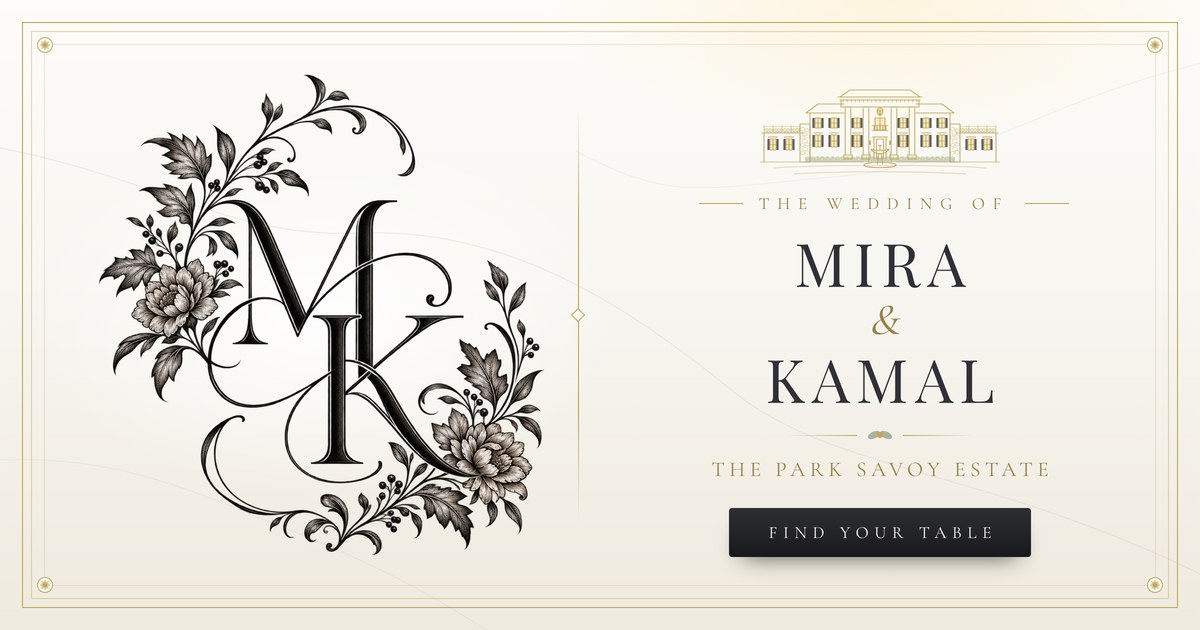
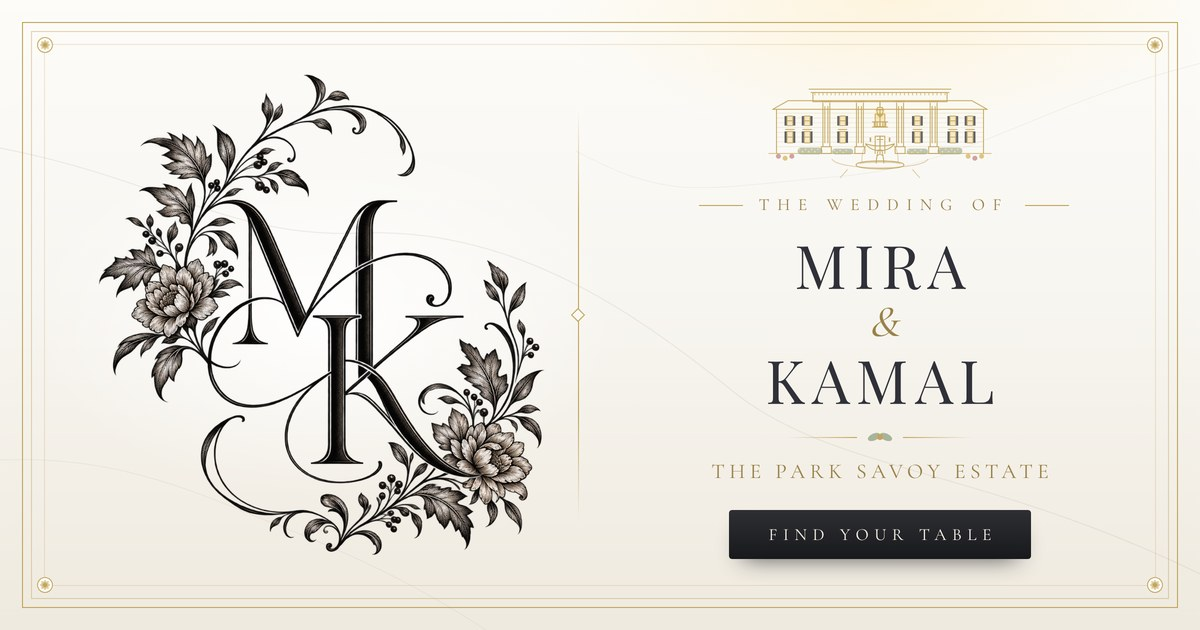
Wedding: back to the simple estate drawing, without trees
The illustration-style layout was busier than wanted. Restores the
simpler line drawing taken from the venue's photograph (with its
evening lighting) and removes the two trees. Link preview re-rendered.

Claude-Session: https://claude.ai/code/session_011Sbhh6dCgMpx6NYGR4aHMs

diff --git a/src/components/guest/templates/WeddingTemplate.tsx b/src/components/guest/templates/WeddingTemplate.tsx
@@ -28,73 +28,69 @@ const template = EVENT_TEMPLATES.wedding;
 const { palette } = template;
 
 /**
- * The Park Savoy's front, laid out after the estate's illustrated print: the
- * two-storey main house under a low hipped roof, its columned portico capped
- * with a hipped roof of its own, tall fieldstone piers where the house meets
- * the single-storey end wings, and lattice railings around the wings' roof
- * terraces. Black shutters throughout, the Juliet balcony and front door at
- * the centre, the tiered fountain before it, one long boxwood hedge.
+ * The Park Savoy's front, drawn from the entrance court: a long two-storey
+ * clapboard house under a low hipped roof, black shutters on every window,
+ * and the deep flat-roofed porch on four square pillars with a dentil cornice.
+ * Under it, a lantern hangs over the front door and an iron Juliet balcony;
+ * in front, the tiered fountain in its round brick court, boxwood hedges and
+ * mums.
  *
  * Lit as it is on a wedding night: once the lines are drawn the windows warm
  * up one after another, the porch lantern glows, and the fairy lights wound
  * through the boxwood twinkle.
  */
 function Estate() {
-  const columns = [88, 106, 134, 152];
-  // [centre x, top, height] for each window of the main house and wings.
+  const pillars = [64, 99, 141, 176];
+  // [centre x, top, height] for each window, both storeys.
   const windows: [number, number, number][] = [
-    [58, 45, 10], [74, 45, 10], [97, 45, 10], [143, 45, 10], [166, 45, 10], [182, 45, 10],
-    [58, 62, 12], [74, 62, 12], [97, 62, 12], [143, 62, 12], [166, 62, 12], [182, 62, 12],
-    [13, 66, 11], [29, 66, 11], [211, 66, 11], [227, 66, 11],
+    [26, 47, 10], [44, 47, 10], [81, 47, 10], [159, 47, 10], [196, 47, 10], [214, 47, 10],
+    [26, 63, 12], [44, 63, 12], [81, 63, 12], [159, 63, 12], [196, 63, 12], [214, 63, 12],
   ];
-  const dentils = Array.from({ length: 19 }, (_, i) => 83 + i * 4.11);
-  // The wings' roof terraces: posts, rails and a lattice band between them.
-  const lattice = (x0: number, x1: number) => {
-    const posts = Array.from({ length: Math.round((x1 - x0) / 9) + 1 }, (_, i) => x0 + ((x1 - x0) * i) / Math.round((x1 - x0) / 9));
-    const cross = Array.from({ length: Math.floor((x1 - x0) / 3) }, (_, i) => {
-      const x = x0 + i * 3;
-      return `M${x} 55.5 l3 3 M${x + 3} 55.5 l-3 3`;
-    });
-    return `M${x0} 53.5 H${x1} M${x0} 59 H${x1} ${posts.map((x) => `M${x} 52 V59`).join(' ')} ${cross.join(' ')}`;
-  };
-  // Fieldstone: loose rounded stones stacked up each pier.
-  const stones = (x: number) =>
-    [
-      [x + 2.5, 56, 2.2, 1.6], [x + 7, 57, 2, 1.5], [x + 4.5, 60.5, 2.6, 1.6], [x + 2.4, 64.5, 2, 1.7],
-      [x + 7.2, 63.5, 2.2, 1.6], [x + 5, 68, 2.6, 1.7], [x + 2.6, 72, 2, 1.6], [x + 7.4, 71.5, 2, 1.6],
-      [x + 4.8, 76, 2.5, 1.7], [x + 2.5, 80, 2.1, 1.6], [x + 7.2, 79.5, 2.1, 1.6],
-    ].map(([cx, cy, rx, ry]) => `M${cx - rx} ${cy} a${rx} ${ry} 0 1 0 ${2 * rx} 0 a${rx} ${ry} 0 1 0 ${-2 * rx} 0`).join(' ');
-  // One long hedge with a scalloped top, and fairy lights along it.
-  const hedgeTop = Array.from({ length: 30 }, () => 'q2.5 -2.6 5 0').join(' ');
-  const fairyLights = Array.from({ length: 49 }, (_, i) => [47 + i * 3.04, 84 + (i % 2 ? 2.4 : 0.4)] as const);
+  const siding = Array.from({ length: 8 }, (_, i) => 44 + i * 5);
+  const dentils = Array.from({ length: 33 }, (_, i) => 52 + i * 4.25);
+  const hedges: [number, number, number][] = [
+    // [x, y, width]
+    [34, 80, 26], [70, 81, 22], [148, 81, 22], [180, 80, 26],
+  ];
+  const fairyLights = hedges.flatMap(([x, y, w]) =>
+    Array.from({ length: Math.floor((w - 3) / 3.2) }, (_, i) => [x + 2 + i * 3.2, y + (i % 2 ? 4.2 : 1.8)] as const)
+  );
+  const mums: [number, number, string][] = [
+    [14, 89, '#C98B8B'], [21, 91, '#D9B866'], [28, 89, '#C98B8B'],
+    [212, 89, '#D9B866'], [219, 91, '#C98B8B'], [226, 89, '#D9B866'],
+  ];
 
   return (
-    <svg className="wed-crest" viewBox="0 0 240 104" aria-hidden width="100%" style={{ maxWidth: 240 }}>
+    <svg className="wed-crest" viewBox="0 0 240 112" aria-hidden width="100%" style={{ maxWidth: 230 }}>
       <defs>
         <radialGradient id="wed-lantern-glow">
           <stop offset="0" stopColor="#F6DC8E" stopOpacity=".9" />
           <stop offset="1" stopColor="#F6DC8E" stopOpacity="0" />
         </radialGradient>
       </defs>
-
-      <path className="wed-crest-fill" d={`M45 89 V84.5 ${hedgeTop} V89 Z`} fill={palette.dividerLeaf} fillOpacity=".6" />
-      <g className="wed-crest-fill" fill="#F7E2A0">
-        {fairyLights.map(([x, y], i) => (
-          <circle key={x} className="wed-twinkle" cx={x} cy={y} r=".75" style={{ ['--i' as string]: i }} />
+      <g className="wed-crest-fill" fill={palette.dividerLeaf} fillOpacity=".75">
+        {hedges.map(([x, y, w]) => (
+          <rect key={x} x={x} y={y} width={w} height={87 - y} rx={(87 - y) / 2} />
         ))}
       </g>
-      <circle className="wed-lantern" cx="120" cy="39" r="6" fill="url(#wed-lantern-glow)" />
+      <g className="wed-crest-fill" fill="#F7E2A0">
+        {fairyLights.map(([x, y], i) => (
+          <circle key={`${x}-${y}`} className="wed-twinkle" cx={x} cy={y} r=".8" style={{ ['--i' as string]: i }} />
+        ))}
+      </g>
+      <circle className="wed-lantern" cx="120" cy="44" r="7" fill="url(#wed-lantern-glow)" />
+      <g className="wed-crest-fill" fillOpacity=".8">
+        {mums.map(([x, y, c]) => (
+          <circle key={`${x}-${y}`} cx={x} cy={y} r="2.6" fill={c} />
+        ))}
+      </g>
 
-      <g fill="none" stroke={palette.accent} strokeWidth=".85" strokeLinecap="round" strokeLinejoin="round">
-        {/* Main house: low hipped roof either side of the portico */}
-        <path d="M46 40 L58 31 H84 M194 40 L182 31 H156 M46 40 H84 M156 40 H194 M50 40 V89 M190 40 V89" pathLength={1} />
-        {/* End wings with their lattice-railed roof terraces */}
-        <path d="M2 60 H44 M196 60 H238 M4 60 V89 M236 60 V89" pathLength={1} />
-        <path d={`${lattice(4, 40)} ${lattice(200, 236)}`} pathLength={1} opacity=".75" strokeWidth=".6" />
-        {/* Fieldstone piers where the wings meet the house */}
-        <path d="M40 51 H50 V89 H40 Z M190 51 H200 V89 H190 Z" pathLength={1} />
-        <path d={`${stones(40)} ${stones(190)}`} pathLength={1} opacity=".6" strokeWidth=".5" />
-        {/* Windows, each with its pair of black shutters; hoods on the lower row */}
+      <g fill="none" stroke={palette.accent} strokeWidth=".9" strokeLinecap="round" strokeLinejoin="round">
+        {/* House: low hipped roof over a long clapboard front */}
+        <path d="M8 40 L24 31 H216 L232 40 Z" pathLength={1} />
+        <path d="M12 40 V86 M228 40 V86" pathLength={1} />
+        <path d={siding.map((y) => `M12 ${y} H228`).join(' ')} pathLength={1} opacity=".18" />
+        {/* Windows with their black shutters */}
         {windows.map(([x, top, h], i) => (
           <g key={`${x}-${top}`}>
             <rect
@@ -109,23 +105,13 @@ function Estate() {
               style={{ ['--i' as string]: i }}
             />
             <path
-              d={`M${x - 3} ${top} h6 v${h} h-6 Z M${x - 3} ${top + h / 2} h6 M${x} ${top} v${h}${top > 55 ? ` M${x - 4.6} ${top - 2} h9.2` : ''}`}
+              // Lower windows carry a small hood above them.
+              d={`M${x - 3} ${top} h6 v${h} h-6 Z M${x - 3} ${top + h / 2} h6${top > 55 ? ` M${x - 4.6} ${top - 2} h9.2` : ''}`}
               pathLength={1}
             />
             <rect className="wed-crest-fill" x={x - 5.6} y={top} width="2.1" height={h} fill={palette.heading} stroke="none" fillOpacity=".75" />
             <rect className="wed-crest-fill" x={x + 3.5} y={top} width="2.1" height={h} fill={palette.heading} stroke="none" fillOpacity=".75" />
           </g>
-        ))}
-        {/* Portico: its own low hipped roof, dentil cornice and four columns */}
-        <path d="M80 24 L90 17 H150 L160 24" pathLength={1} />
-        <path d="M78 24 H162 M80 27 H160 M81 34 H159 M81 27 V34 M159 27 V34" pathLength={1} />
-        <path d={dentils.map((x) => `M${x} 27 V29`).join(' ')} pathLength={1} opacity=".7" />
-        {columns.map((x) => (
-          <path
-            key={x}
-            d={`M${x - 4} 34 H${x + 4} M${x - 2.8} 35.5 V82 M${x + 2.8} 35.5 V82 M${x - 4.2} 82 H${x + 4.2} V86 H${x - 4.2} Z`}
-            pathLength={1}
-          />
         ))}
         {/* Centre bay: French door and Juliet balcony, front door and lamps */}
         <rect
@@ -133,26 +119,38 @@ function Estate() {
           x="115"
           y="45"
           width="10"
-          height="12"
+          height="13"
           fill="#F2D48A"
           fillOpacity=".42"
           stroke="none"
           style={{ ['--i' as string]: windows.length }}
         />
-        <path d="M115 45 h10 v12 h-10 Z M120 45 v12" pathLength={1} />
-        <path d={`M112 57.5 H128 M112 52.5 H128 ${[114, 117, 120, 123, 126].map((x) => `M${x} 52.5 V57.5`).join(' ')}`} pathLength={1} />
-        <path d="M112.5 64 H127.5 M114 64 V86 M126 64 V86 M116.5 66 h7 V86 h-7 Z" pathLength={1} />
-        <path d="M110 68 v3.2 M130 68 v3.2" pathLength={1} strokeWidth="1.6" />
+        <path d="M115 45 h10 v13 h-10 Z M120 45 v13" pathLength={1} />
+        <path d={`M112 58.5 H128 M112 53 H128 ${[114, 117, 120, 123, 126].map((x) => `M${x} 53 V58.5`).join(' ')}`} pathLength={1} />
+        <path d="M115 86 V68 H125 V86 M120 68 V86" pathLength={1} />
+        <path d="M110 70 v3 M130 70 v3" pathLength={1} strokeWidth="1.6" />
+        {/* Porch: dentil cornice, deep fascia, four square panelled pillars */}
+        <path d="M46 19 H194 M48 22.5 H192 M50 32 H190 M50 22.5 V32 M190 22.5 V32" pathLength={1} />
+        <path d={dentils.map((x) => `M${x} 22.5 V25`).join(' ')} pathLength={1} opacity=".7" />
+        {pillars.map((x) => (
+          <path
+            key={x}
+            d={`M${x - 5} 32 H${x + 5} M${x - 3.6} 33.5 V79 M${x + 3.6} 33.5 V79 M${x - 1.6} 37 V75 M${x + 1.6} 37 V75 M${x - 5.2} 79 H${x + 5.2} V86 H${x - 5.2} Z`}
+            pathLength={1}
+          />
+        ))}
         {/* The crystal lantern hanging from the porch ceiling */}
-        <path d="M120 34 V35.5 M118 35.5 h4 l.8 2 h-5.6 Z M117.2 37.5 l1 3.6 h3.6 l1 -3.6 M120 37.5 V41.1 M118.6 41.1 l1.4 1.6 l1.4 -1.6" pathLength={1} />
-        {/* Fountain before the door: basin, tiered bowl and statue */}
-        <path d="M104 92 C 104 88.5, 136 88.5, 136 92 C 136 95.5, 104 95.5, 104 92 Z" pathLength={1} />
-        <path d="M117.5 91 C 117.5 87, 118.5 84, 118.6 80.5 H121.4 C 121.5 84, 122.5 87, 122.5 91" pathLength={1} />
-        <path d="M111 76 Q 114 81 120 81 Q 126 81 129 76 Q 124.5 77.8 120 77.5 Q 115.5 77.8 111 76 Z M120 77.5 V72.5 M118 72.5 h4" pathLength={1} />
-        <path d="M111.5 77 C 109.5 81, 108.5 85, 108.5 89.5 M128.5 77 C 130.5 81, 131.5 85, 131.5 89.5" pathLength={1} opacity=".5" strokeDasharray="1.2 2.2" />
-        {/* The rise of lawn the house sits on */}
-        <path d="M0 89 H104 M136 89 H240" pathLength={1} opacity=".7" />
-        <path d="M14 95 C 60 91.5, 180 91.5, 226 95 M34 101 C 80 98, 160 98, 206 101" pathLength={1} opacity=".45" />
+        <path d="M120 32 V38 M117.5 38 h5 l1 2.5 h-7 Z M116.5 40.5 l1.2 5.5 h4.6 l1.2 -5.5 M120 40.5 V46 M118.2 46 l1.8 2.4 l1.8 -2.4" pathLength={1} />
+        {/* Fountain: basin, tiered bowl and statue, falling water */}
+        <path d="M95 98 C 95 92.5, 145 92.5, 145 98 C 145 103.5, 95 103.5, 95 98 Z" pathLength={1} />
+        <path d="M99 97 C 99 94.5, 141 94.5, 141 97" pathLength={1} opacity=".6" />
+        <path d="M116 96 C 116 91, 117.5 87, 118 82.5 H122 C 122.5 87, 124 91, 124 96 M118 88 C 119 86.5, 121 86.5, 122 88" pathLength={1} />
+        <path d="M105 76 Q 110 83 120 83 Q 130 83 135 76 Q 127.5 78.5 120 78 Q 112.5 78.5 105 76 Z" pathLength={1} />
+        <path d="M120 78 V71.5 M117 71.5 h6 M120 71.5 V68" pathLength={1} />
+        <path d="M105.5 77 C 102 82, 101 88, 101 95 M134.5 77 C 138 82, 139 88, 139 95" pathLength={1} opacity=".5" strokeDasharray="1.2 2.2" />
+        {/* Ground line and the round brick court opening towards us */}
+        <path d="M4 86 H94 M146 86 H236" pathLength={1} opacity=".7" />
+        <path d="M70 92 C 76 104, 164 104, 170 92 M86 103 L78 112 M154 103 L162 112" pathLength={1} opacity=".55" />
       </g>
     </svg>
   );
@@ -346,7 +344,7 @@ export default function WeddingTemplate({ portal }: { portal: GuestPortal }) {
               <Rosette className="-bottom-2 -right-2" />
             </div>
 
-            <div className="mx-auto mb-4 flex w-[92%] max-w-[240px] justify-center sm:mb-5">
+            <div className="mx-auto mb-4 flex w-[86%] max-w-[230px] justify-center sm:mb-5">
               <Estate />
             </div>
 

diff --git a/CLAUDE.md b/CLAUDE.md
@@ -188,11 +188,12 @@ gesture works against that rather than against four different record shapes.
   own `fixed`, clipped layer.
 - The wedding template is styled after the Park Savoy Estate (Florham Park,
   NJ): white Carrara marble, gilt boiserie panel with rosettes, a line drawing
-  of the real front, laid out after the estate's illustrated print (main house
-  under a hipped roof, columned portico with its own roof, fieldstone piers,
-  single-storey wings with lattice-railed terraces, Juliet balcony, fountain,
-  boxwood) and lit as at night — windows, lantern, fairy lights. Not a
-  pediment: that read as a courthouse. And a crystal chandelier on wider screens.
+  of the real front (from the venue's photo: two-storey clapboard house, black
+  shutters, the flat-roofed porch on four square panelled pillars with a dentil
+  cornice, Juliet balcony and lantern, tiered fountain in a round brick court,
+  boxwood and mums, no trees, lit as at night: windows, lantern and fairy lights — not a
+  pediment, which read as a courthouse), and a crystal
+  chandelier on wider screens.
 - Site icons and the link preview are the couple's monogram on ivory, via Next's
   file convention in `src/app/` (`favicon.ico`, `icon.png`, `apple-icon.png`,
   `opengraph-image.jpg` + `.alt.txt`). The link preview is a designed card —
